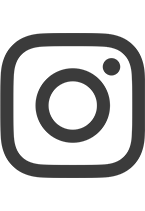
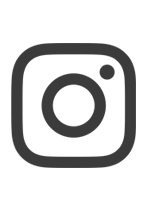
convert image to svg

diff --git a/index.html b/index.html
@@ -88,7 +88,7 @@
 									<td style="border-right:2px solid #000; width: 35%; font-size: 28px; text-align: center; font-weight: bold; font-family: 'Open Sans',arial,sans-serif!important; position: relative;">
 										<!-- Logo -->
 										<a href="#" target="_blank">
-											<img src="https://asmaaebeed.github.io/simple-email-signature/img/LISTEN-UP-FULL-LOGO.png" alt="Listen_up_Logo" width="90%" height="auto" style="display: block;" />
+											<img src="./img/LISTEN-UP-FULL-LOGO.svg" alt="Listen_up_Logo" width="90%" height="auto" style="display: block;" />
 										</a>
 									</td>
 									<td style="width: 65%; text-align: left; padding-left: 10px;">
@@ -100,19 +100,19 @@
 												<td style="width: 10%">
 
 													<a target="_blank" href="#" style="text-decoration: none;">
-														<img alt="Twitter" src="https://asmaaebeed.github.io/simple-email-signature/img/web.png" style="width: 75%;  padding: 0 5px 0 0;"/>
+														<img alt="web" src="./img/web.svg" style="width: 75%;  padding: 0 5px 0 0;"/>
 													</a>
 												</td>
 												<td style="width: 10%;">
 
 													<a target="_blank" href="https://twitter.com/DealtoBook" style="text-decoration: none;">
-														<img alt="Twitter" src="https://asmaaebeed.github.io/simple-email-signature/img/insta.png" style="width: 80%; padding: 0 5px;"/>
+														<img alt="Insta" src="./img/insta.svg" style="width: 80%; padding: 0 5px;"/>
 													</a>
 												</td>
 												<td style="width: 12%">
 
 													<a target="_blank" href="#" style="text-decoration: none;">
-														<img alt="Twitter" src="https://asmaaebeed.github.io/simple-email-signature/img/mobile.png" style="width: 80%; padding-left: 5px;"/>
+														<img alt="mobile" src="./img/mobile.svg" style="width: 80%; padding-left: 5px;"/>
 													</a>
 												</td>
 											
